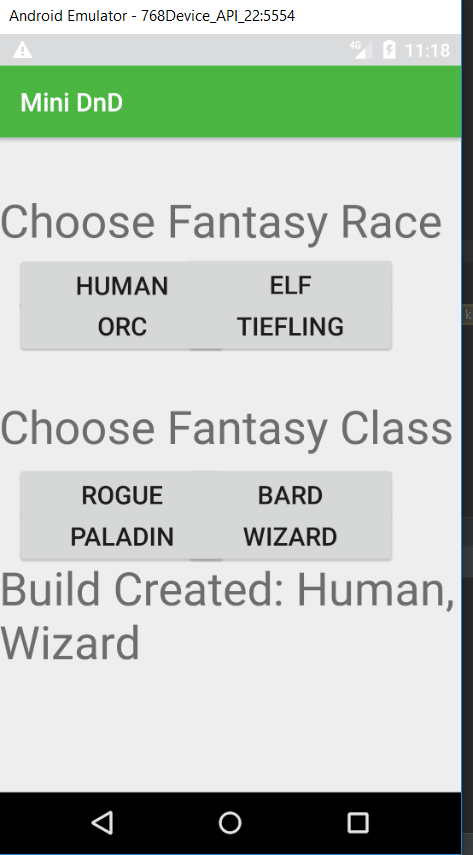
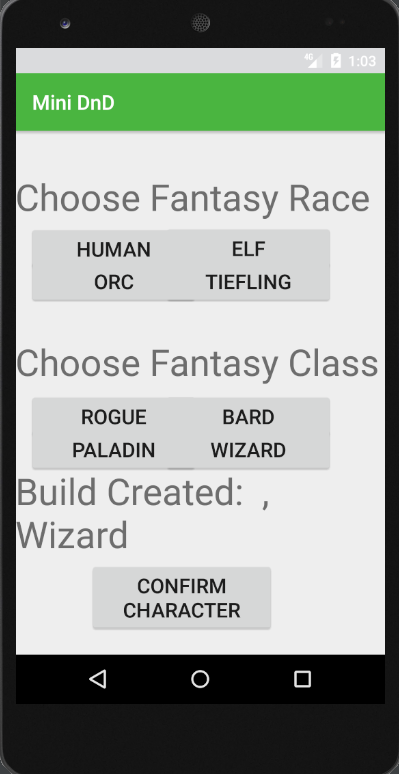
Mini DnD
Updated some files and added some error handling

diff --git a/Source Code/CreateChar.java b/Source Code/CreateChar.java
@@ -1,5 +1,8 @@
 package com.example.minidnd;
 
+import android.annotation.SuppressLint;
+import android.app.Activity;
+import android.content.Intent;
 import android.content.SharedPreferences;
 import android.support.v7.app.AlertDialog;
 import android.support.v7.app.AppCompatActivity;
@@ -9,105 +12,139 @@ import android.widget.Button;
 import android.widget.TextView;
 
 public class CreateChar extends AppCompatActivity {
-    //Create Character Screen
-    private Button HumanButton;
-    private Button ElfButton;
-    private Button OrcButton;
-    private Button TiefButton;
-
-    private Button RogueButton;
-    private Button BardButton;
-    private Button PalaButton;
-    private Button WizButton;
 
     static SharedPreferences temp;
     static SharedPreferences.Editor edit;
 
+    @SuppressLint("SetTextI18n")
     @Override
     protected void onCreate(Bundle savedInstanceState) {
         super.onCreate(savedInstanceState);
         setContentView(R.layout.activity_create_char);
 
-        final TextView Build_text =(TextView)findViewById(R.id.build_create);
+        final TextView Build_text = findViewById(R.id.build_create);
         temp = this.getPreferences(MODE_PRIVATE);
         edit = temp.edit();
+        edit.putString("Race", " ");
+        edit.putString("Class", " ");
+        edit.commit();
+        Build_text.setText("Build Created: "+temp.getString("Race", " ")+", "+temp.getString("Class"," "));
 
         //Choose Fantasy Race Buttons
-        HumanButton = (Button) findViewById(R.id.human_button);
-        HumanButton.setOnClickListener(new View.OnClickListener() {
+        //Create Character Screen
+        Button humanButton = findViewById(R.id.human_button);
+        humanButton.setOnClickListener(new View.OnClickListener() {
             @Override
             public void onClick(View v) {
                 edit.putString("Race","Human");
                 edit.commit();
+
+                Build_text.setText("Build Created: "+temp.getString("Race", " ")+", "+temp.getString("Class"," "));
             }
         });
 
-        ElfButton = (Button) findViewById(R.id.elf_button);
-        ElfButton.setOnClickListener(new View.OnClickListener() {
+        Button elfButton = findViewById(R.id.elf_button);
+        elfButton.setOnClickListener(new View.OnClickListener() {
             @Override
             public void onClick(View v) {
                 edit.putString("Race","Elf");
                 edit.commit();
+
+                Build_text.setText("Build Created: "+temp.getString("Race", " ")+", "+temp.getString("Class"," "));
             }
         });
 
-        OrcButton = (Button) findViewById(R.id.orc_button);
-        OrcButton.setOnClickListener(new View.OnClickListener() {
+        Button orcButton = findViewById(R.id.orc_button);
+        orcButton.setOnClickListener(new View.OnClickListener() {
             @Override
             public void onClick(View v) {
                 edit.putString("Race","Orc");
                 edit.commit();
+
+                Build_text.setText("Build Created: "+temp.getString("Race", " ")+", "+temp.getString("Class"," "));
             }
         });
 
-        TiefButton = (Button) findViewById(R.id.tiefling_button);
-        TiefButton.setOnClickListener(new View.OnClickListener() {
+        Button tiefButton = findViewById(R.id.tiefling_button);
+        tiefButton.setOnClickListener(new View.OnClickListener() {
             @Override
             public void onClick(View v) {
                 edit.putString("Race","Tiefling");
                 edit.commit();
+
+                Build_text.setText("Build Created: "+temp.getString("Race", " ")+", "+temp.getString("Class"," "));
             }
         });
 
         //Choose Fantasy Class Buttons
-        RogueButton = (Button) findViewById(R.id.rogue_button);
-        RogueButton.setOnClickListener(new View.OnClickListener() {
+        Button rogueButton = findViewById(R.id.rogue_button);
+        rogueButton.setOnClickListener(new View.OnClickListener() {
             @Override
             public void onClick(View v) {
                 edit.putString("Class","Rogue");
                 edit.commit();
+
+                Build_text.setText("Build Created: "+temp.getString("Race", " ")+", "+temp.getString("Class"," "));
+
             }
         });
 
-        BardButton = (Button) findViewById(R.id.bard_button);
-        BardButton.setOnClickListener(new View.OnClickListener() {
+        Button bardButton = findViewById(R.id.bard_button);
+        bardButton.setOnClickListener(new View.OnClickListener() {
             @Override
             public void onClick(View v) {
                 edit.putString("Class","Bard");
                 edit.commit();
+
+                Build_text.setText("Build Created: "+temp.getString("Race", " ")+", "+temp.getString("Class"," "));
             }
         });
 
-        PalaButton = (Button) findViewById(R.id.paladin_button);
-        PalaButton.setOnClickListener(new View.OnClickListener() {
+        Button palaButton = findViewById(R.id.paladin_button);
+        palaButton.setOnClickListener(new View.OnClickListener() {
             @Override
             public void onClick(View v) {
                 edit.putString("Class","Paladin");
                 edit.commit();
+
+                Build_text.setText("Build Created: "+temp.getString("Race", " ")+", "+temp.getString("Class"," "));
             }
         });
 
-        WizButton = (Button) findViewById(R.id.wizard_button);
-        WizButton.setOnClickListener(new View.OnClickListener() {
+        Button wizButton = findViewById(R.id.wizard_button);
+        wizButton.setOnClickListener(new View.OnClickListener() {
             @Override
             public void onClick(View v) {
                 edit.putString("Class","Wizard");
                 edit.commit();
+
+                Build_text.setText("Build Created: "+temp.getString("Race", " ")+", "+temp.getString("Class"," "));
             }
         });
 
-        //Output Build
-        Build_text.setText("Build Created: "+temp.getString("Race"," ")+", "+temp.getString("Class"," "));
 
+        Button confirmButton = findViewById(R.id.confirm_char);
+        confirmButton.setOnClickListener(new View.OnClickListener() {
+            @Override
+            public void onClick(View v) {
+                if (temp.getString("Race", " ") == " " || temp.getString("Class", " ") == " ")
+                {
+                    AlertDialog.Builder alert = new AlertDialog.Builder(CreateChar.this);
+                    alert.setTitle("Error");
+                    alert.setMessage("Character Not Created");
+                    AlertDialog alertDialog = alert.create();
+                    alertDialog.show();
+                }
+                else {
+                    Intent statIntent = new Intent(CreateChar.this, Stats.class);
+                    Intent intent = new Intent(CreateChar.this, MainActivity.class);
+                    statIntent.putExtra("Class",temp.getString("Class", "NA"));
+                    statIntent.putExtra("Race", temp.getString("Race", "NA"));
+
+                    setResult(Activity.RESULT_OK, intent);
+                    finish();
+                }
+            }
+        });
     }
 }

diff --git a/Source Code/MainActivity.java b/Source Code/MainActivity.java
@@ -1,9 +1,13 @@
 package com.example.minidnd;
 
+import android.app.Activity;
 import android.content.Intent;
+import android.content.SharedPreferences;
 import android.os.Bundle;
+import android.support.annotation.Nullable;
 import android.support.design.widget.FloatingActionButton;
 import android.support.design.widget.Snackbar;
+import android.support.v7.app.AlertDialog;
 import android.support.v7.app.AppCompatActivity;
 import android.support.v7.widget.Toolbar;
 import android.view.View;
@@ -13,6 +17,11 @@ import android.widget.Button;
 
 public class MainActivity extends AppCompatActivity {
     private Button CreateChar;
+    String Race;
+    String Class;
+
+    static SharedPreferences settings;
+    static SharedPreferences.Editor editor;
 
     @Override
     protected void onCreate(Bundle savedInstanceState) {
@@ -21,16 +30,45 @@ public class MainActivity extends AppCompatActivity {
         Toolbar toolbar = findViewById(R.id.toolbar);
         setSupportActionBar(toolbar);
 
+        settings = this.getPreferences(MODE_PRIVATE);
+        editor = settings.edit();
+
         CreateChar = (Button) findViewById(R.id.create_char_button);
         CreateChar.setOnClickListener(new View.OnClickListener() {
             @Override
             public void onClick(View v) {
-                startActivity(new Intent(MainActivity.this,CreateChar.class));
+                Intent charIntent = new Intent(MainActivity.this, CreateChar.class);
+                startActivityForResult(charIntent, 101);
 
             }
         });
 
+    }
 
+    @Override
+    protected void onActivityResult(int requestCode, int resultCode, @Nullable Intent data) {
+        super.onActivityResult(requestCode, resultCode, data);
+        switch(requestCode) {
+            case 101:
+                if (resultCode == Activity.RESULT_OK) {
+                    editor.putString("Race",data.getStringExtra("CharRace"));
+                    editor.putString("Class", data.getStringExtra("CharClass"));
+                    editor.commit();
+
+                }
+                else {
+                    editor.putString("Race", "NA");
+                    editor.putString("Class", "NA");
+                    editor.commit();
+
+                    AlertDialog.Builder alert = new AlertDialog.Builder(MainActivity.this);
+                    alert.setTitle("Error");
+                    alert.setMessage("Character Not Confirmed");
+                    AlertDialog alertDialog = alert.create();
+                    alertDialog.show();
+                }
+
+        }
     }
 
     @Override
@@ -49,7 +87,8 @@ public class MainActivity extends AppCompatActivity {
 
         //noinspection SimplifiableIfStatement
         if (id == R.id.menu_stats) {
-            startActivity(new Intent(MainActivity.this, Stats.class));
+            Intent statIntent = new Intent(MainActivity.this, Stats.class);
+            startActivity(statIntent);
             return true;
         }
 

diff --git a/Source Code/Stats.java b/Source Code/Stats.java
@@ -1,14 +1,30 @@
 package com.example.minidnd;
 
+import android.content.SharedPreferences;
 import android.support.v7.app.AppCompatActivity;
 import android.os.Bundle;
+import android.widget.TextView;
+
+import java.util.Objects;
 
 public class Stats extends AppCompatActivity {
+
+    //static SharedPreferences set;
+    //static SharedPreferences.Editor edit;
 
     @Override
     protected void onCreate(Bundle savedInstanceState) {
         super.onCreate(savedInstanceState);
         setContentView(R.layout.activity_stats);
+
+        //set = this.getPreferences(MODE_PRIVATE);
+        //edit = set.edit();
+
+        String Class = getIntent().getExtras().getString("Class");
+        String Race = getIntent().getExtras().getString("Race");
+
+        final TextView Build_text = findViewById(R.id.build_create2);
+        Build_text.setText("Build Created: "+ Race + ", " + Class);
 
 
     }
